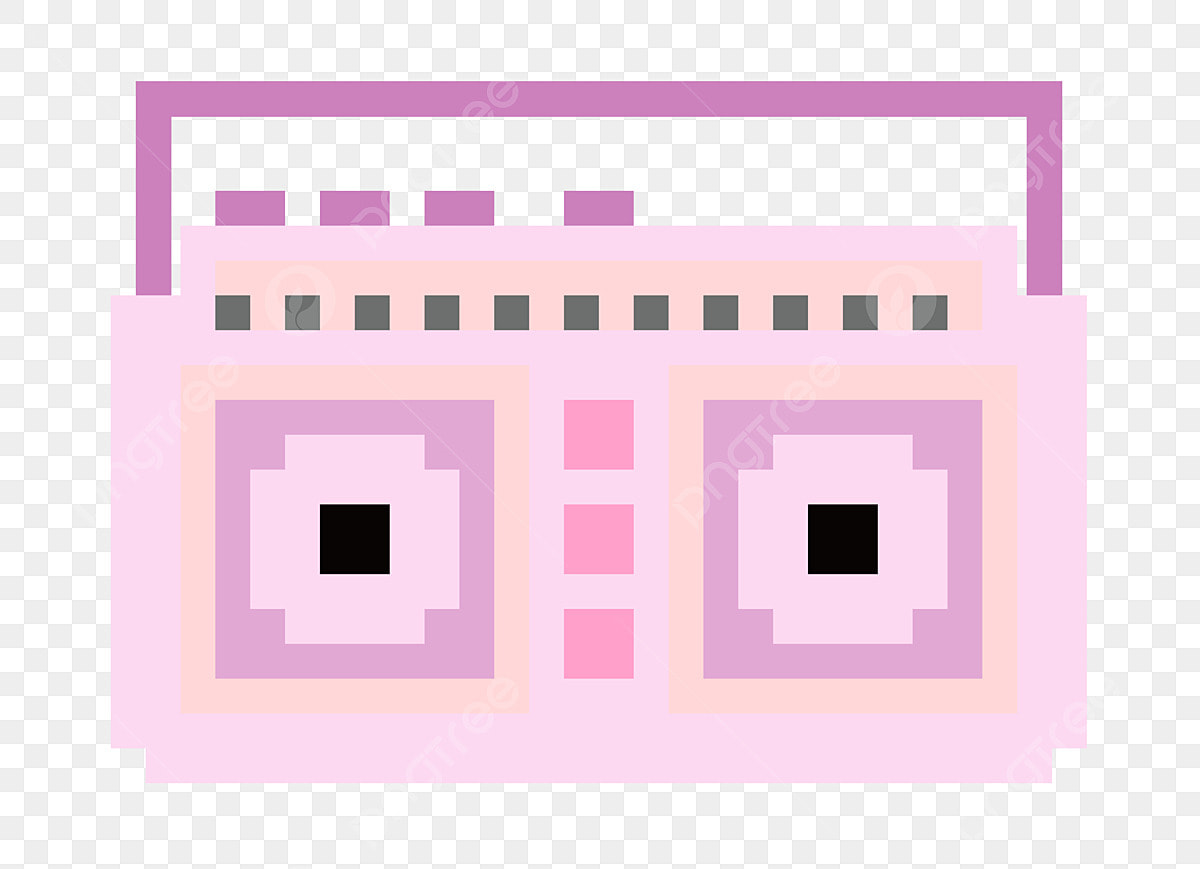
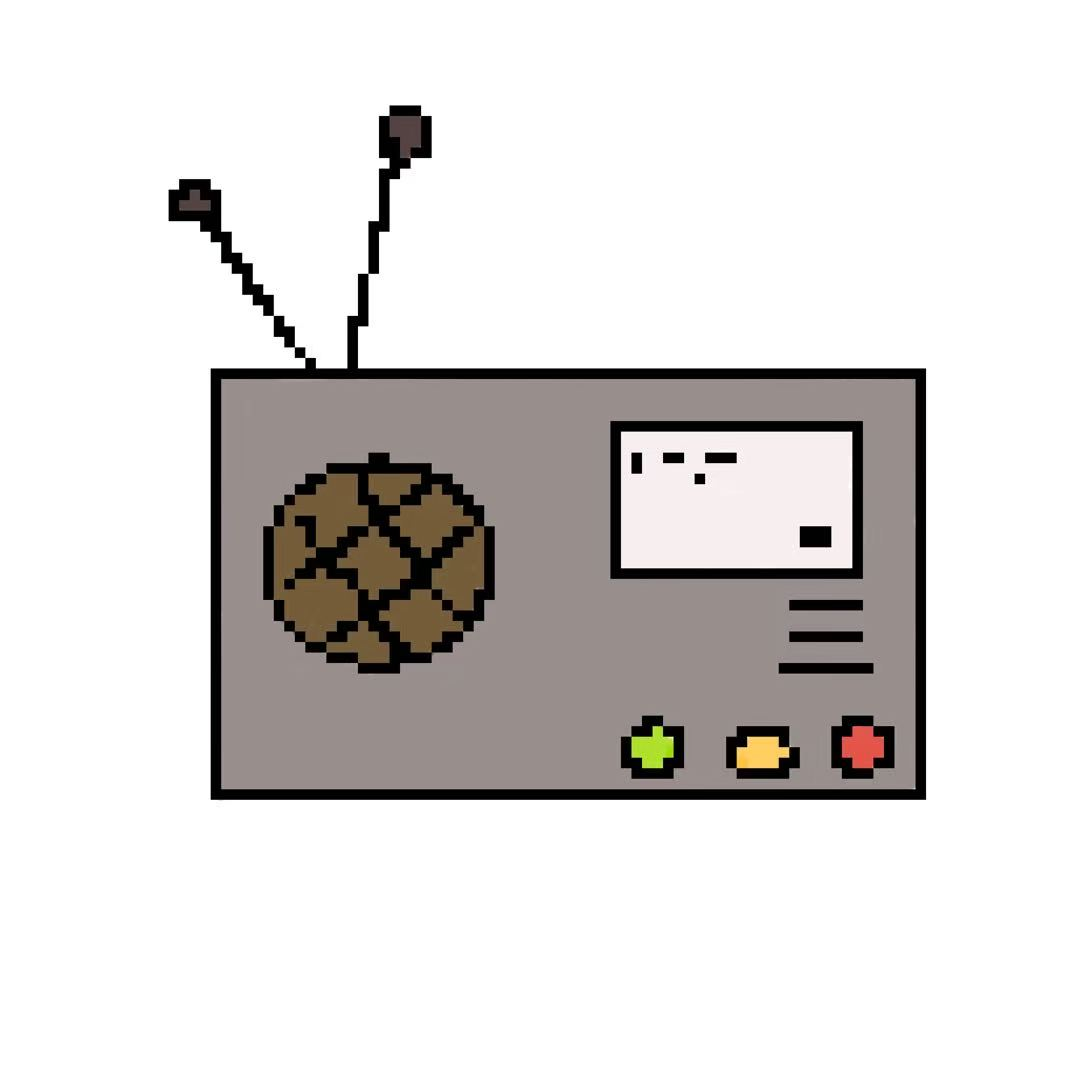
Change character avater

diff --git a/main.js b/main.js
@@ -21,7 +21,7 @@ const prologueScript = [
         // 标记：这是主角（你）！
         role: "player", 
         name: "主角 (你)", 
-        avatar: "assets/player.png", // 指向你设计的主角贴图
+        avatar: "assets/main.png", // 指向你设计的主角贴图
         text: "“收到，这里是星际巡航号。地球目前的情况严重吗？”" 
     },
     { 
@@ -33,7 +33,7 @@ const prologueScript = [
     { 
         role: "player", 
         name: "主角 (你)", 
-        avatar: "assets/player.png", 
+        avatar: "assets/main.png", 
         text: "“明白。引擎全开，目标：未知星系。出发！”" 
     }
 ];